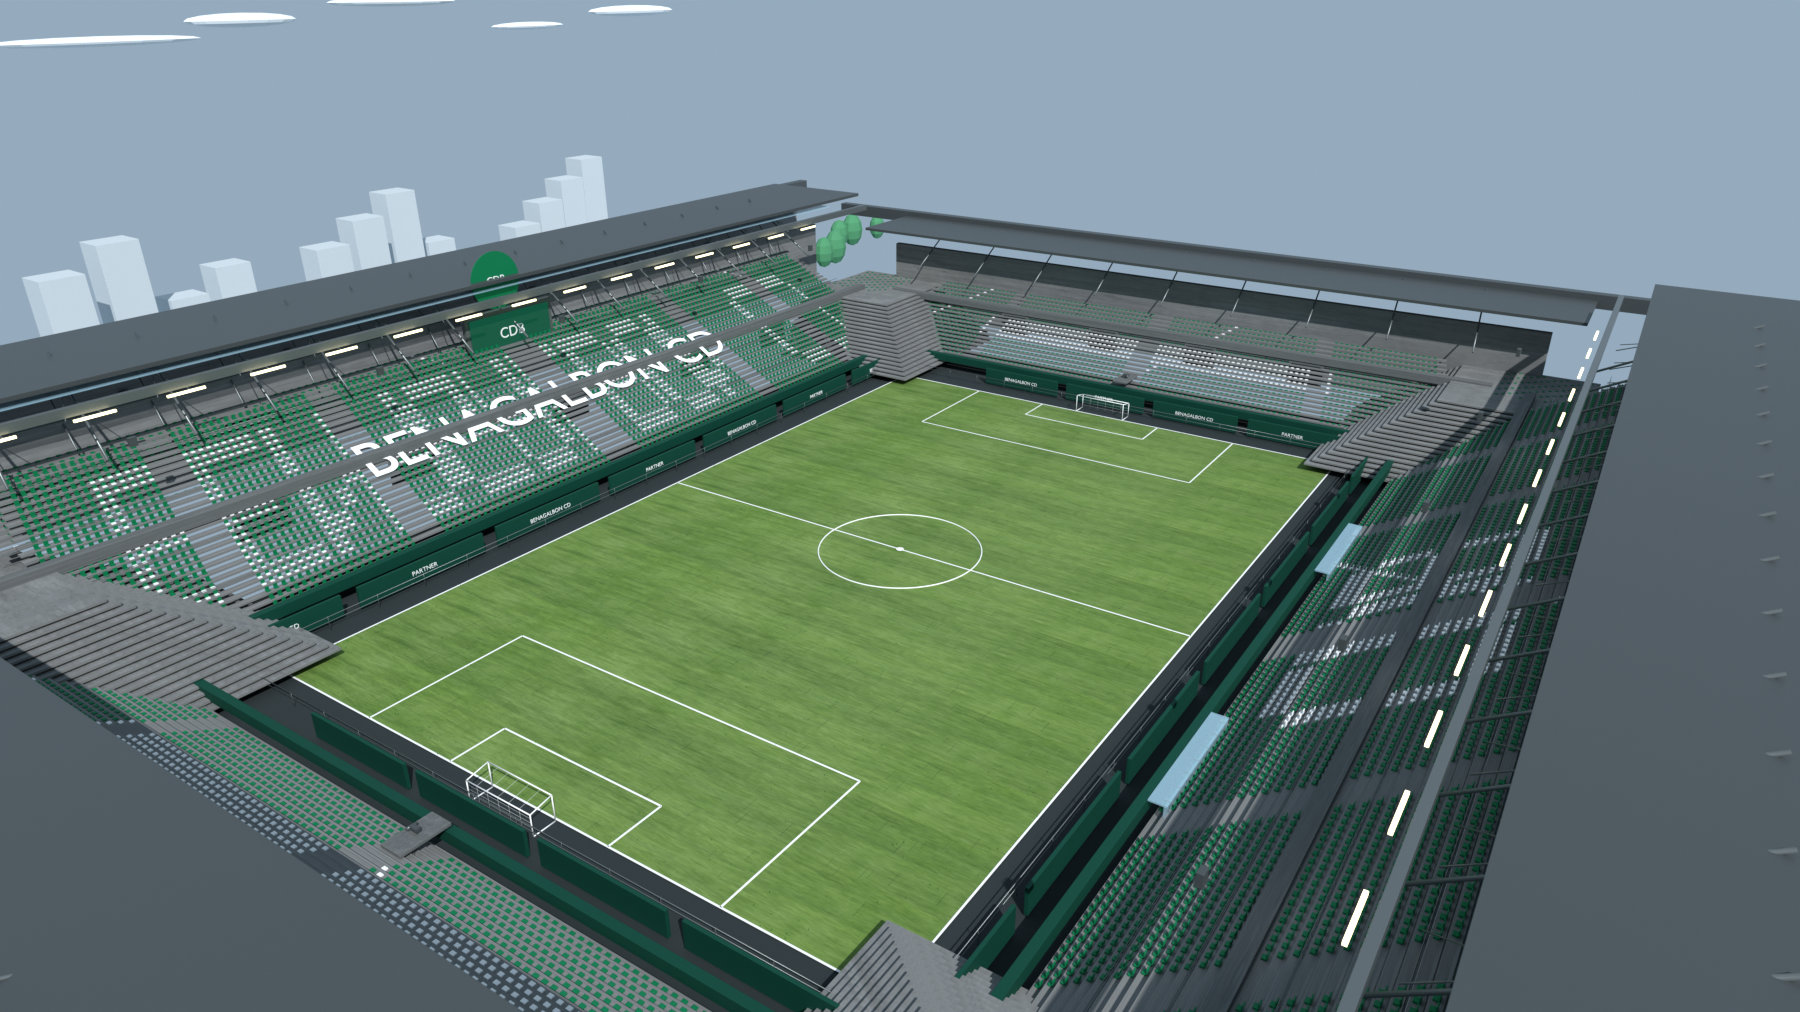
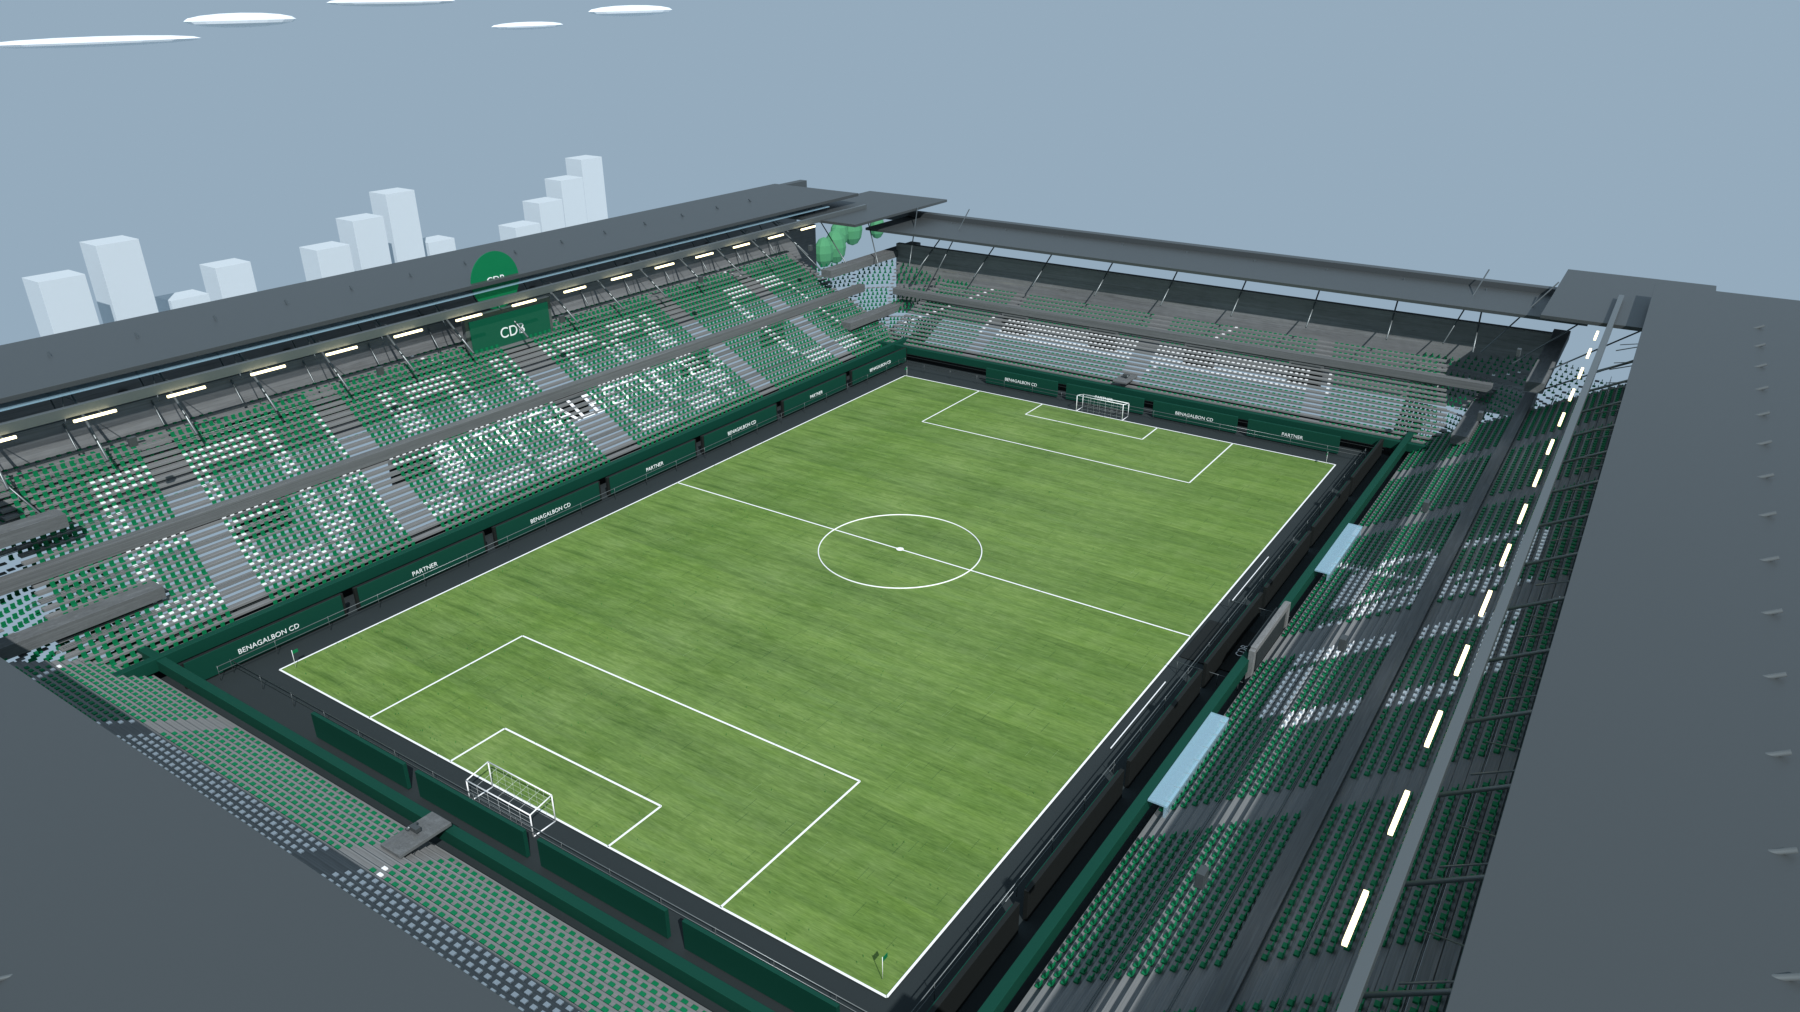
Model stadium bowl and pitch details

diff --git a/football/templates/football/stadium_hyperrealistic.html b/football/templates/football/stadium_hyperrealistic.html
@@ -126,7 +126,7 @@
   <body>
     <main
       id="stadium-root"
-      data-model-src="{% static 'football/models/stadium/benagalbon-hyperrealistic-stadium.glb' %}?v=stadium-render-10"
+      data-model-src="{% static 'football/models/stadium/benagalbon-hyperrealistic-stadium.glb' %}?v=stadium-render-11"
       data-crest-src="{% static 'football/images/cdb-benagalbon-crest.png' %}"
       data-twoj-src="{% static 'football/images/2j-mark.svg' %}"
     ></main>
@@ -142,6 +142,6 @@
         <button type="button" data-camera="touchline" title="Camara banda">LINE</button>
       </div>
     </div>
-    <script type="module" src="{% static 'football/js/stadium_hyperrealistic.js' %}?v=blender-stadium-10"></script>
+    <script type="module" src="{% static 'football/js/stadium_hyperrealistic.js' %}?v=blender-stadium-11"></script>
   </body>
 </html>

diff --git a/scripts/create_hyperrealistic_stadium_blender.py b/scripts/create_hyperrealistic_stadium_blender.py
@@ -274,6 +274,12 @@ def add_text(name, text, loc, size, mat_name, rot=(0, 0, 0), align="CENTER", ext
     return obj
 
 
+def add_textured_panel(name, loc, scale, mat_name, rot=(0, 0, 0), bevel=0.02):
+    obj = cube(name, loc, scale, mat_name, bevel)
+    obj.rotation_euler = rot
+    return obj
+
+
 def add_pitch():
     cube("service_apron_asphalt", (0, 0, -0.055), (140, 100, 0.08), "asphalt")
     stripe_w = PITCH_X / 14
@@ -426,11 +432,11 @@ def add_long_stand(name, sign):
         add_text(
             f"{name}_seat_name_overlay",
             "BENAGALBON CD",
-            (0, base_y + sign * 10.85, 8.45),
-            7.25,
+            (0, base_y + sign * 8.65, 6.65),
+            5.15,
             "seat_white",
             rot=(seating_angle, 0, 0),
-            extrude=0.012,
+            extrude=0.006,
         )
     cube(f"{name}_front_fascia", (0, base_y - sign * 1.2, 2.1), (PITCH_X + 32, 0.8, 1.25), "green_dark", 0.04)
     cube(f"{name}_middle_concourse_ring", (0, base_y + sign * 11.4, 8.7), (PITCH_X + 31, 1.25, 1.25), "concrete_dark", 0.03)
@@ -510,29 +516,48 @@ def add_end_stand(name, sign):
 def add_corner_stands():
     for sx in [-1, 1]:
         for sy in [-1, 1]:
-            base_x = sx * (HALF_X + 9.5)
-            base_y = sy * (HALF_Y + 9.5)
+            center_x = sx * (HALF_X + 4.4)
+            center_y = sy * (HALF_Y + 4.4)
             primary, secondary = [], []
-            for row in range(18):
-                z = 1.15 + row * 0.43
-                width = 28 - row * 0.52
-                depth = 25 - row * 0.46
-                cube(f"corner_step_{sx}_{sy}_{row}", (base_x + sx * row * 0.50, base_y + sy * row * 0.50, z - 0.1), (width, depth, 0.24), "concrete")
-                for ix in range(28):
-                    for iy in range(22):
-                        nx = ix / 27 - 0.5
-                        ny = iy / 21 - 0.5
-                        if nx * sx < -0.18 or ny * sy < -0.18:
-                            continue
-                        if (ix + iy + row) % 4:
-                            continue
-                        x = base_x + sx * row * 0.50 + nx * (width - 2)
-                        y = base_y + sy * row * 0.50 + ny * (depth - 2)
-                        target = secondary if (row + ix + iy) % 31 == 0 else primary
-                        target.append(((x, y, z + 0.04), (0.34, 0.34, 0.15)))
-            mesh_boxes(f"corner_{sx}_{sy}_green_seats", primary, "green")
-            mesh_boxes(f"corner_{sx}_{sy}_white_seats", secondary, "seat_white")
-            cube(f"corner_{sx}_{sy}_concourse_ring", (base_x + sx * 9.0, base_y + sy * 9.0, 7.6), (16, 1.0, 1.0) if abs(sx) else (1.0, 16, 1.0), "concrete_dark", 0.02)
+            aisle, backs = [], []
+            angle_start, angle_end = 0, math.pi / 2
+            if sx < 0 and sy > 0:
+                angle_start, angle_end = math.pi / 2, math.pi
+            elif sx < 0 and sy < 0:
+                angle_start, angle_end = math.pi, 1.5 * math.pi
+            elif sx > 0 and sy < 0:
+                angle_start, angle_end = 1.5 * math.pi, 2 * math.pi
+            for row in range(24):
+                radius = 6.5 + row * 0.86
+                z = 1.10 + row * 0.44
+                step_count = 30 + row // 2
+                for col in range(step_count):
+                    t = col / max(1, step_count - 1)
+                    angle = angle_start + (angle_end - angle_start) * t
+                    x = center_x + math.cos(angle) * radius
+                    y = center_y + math.sin(angle) * radius
+                    if abs(x) < HALF_X + 2.4 or abs(y) < HALF_Y + 2.4:
+                        continue
+                    if col in {7, 15, 23} or row in {8, 16}:
+                        aisle.append(((x, y, z - 0.04), (0.58, 0.50, 0.11)))
+                        continue
+                    target = secondary if (row + col) % 43 == 0 else primary
+                    target.append(((x, y, z + 0.06), (0.36, 0.36, 0.15)))
+                    backs.append(((x, y, z + 0.32), (0.36, 0.08, 0.34)))
+            mesh_boxes(f"corner_{sx}_{sy}_curved_green_seats", primary, "green")
+            mesh_boxes(f"corner_{sx}_{sy}_curved_white_seats", secondary, "seat_white")
+            mesh_boxes(f"corner_{sx}_{sy}_curved_aisles", aisle, "concrete")
+            mesh_boxes(f"corner_{sx}_{sy}_seat_backs", backs, "green")
+            cube(f"corner_{sx}_{sy}_lower_concourse_mass", (sx * (HALF_X + 13.6), sy * (HALF_Y + 13.6), 5.6), (22, 2.0, 1.2), "concrete_dark", 0.02)
+            cube(f"corner_{sx}_{sy}_upper_concourse_mass", (sx * (HALF_X + 20.2), sy * (HALF_Y + 20.2), 12.8), (28, 2.1, 1.3), "concrete_dark", 0.02)
+            cube(f"corner_{sx}_{sy}_curved_roof_corner_plate", (sx * (HALF_X + 27.6), sy * (HALF_Y + 27.6), 20.0), (30, 18, 0.46), "roof", 0.03)
+            for i in range(5):
+                angle = angle_start + (angle_end - angle_start) * (i + 0.5) / 5
+                x1 = center_x + math.cos(angle) * 17
+                y1 = center_y + math.sin(angle) * 17
+                x2 = center_x + math.cos(angle) * 31
+                y2 = center_y + math.sin(angle) * 31
+                cylinder_between(f"corner_{sx}_{sy}_roof_radial_truss_{i}", (x1, y1, 12.5), (x2, y2, 20.4), 0.095, "steel", 10)
 
 
 def add_boards():
@@ -541,6 +566,7 @@ def add_boards():
     for x in range(-51, 52, 17):
         for sign in [-1, 1]:
             y = sign * (HALF_Y + 4.0)
+            cube(f"board_panel_back_{idx}", (x, y + sign * 0.10, 1.26), (15.8, 0.34, 2.64), "rubber", 0.02)
             cube(f"board_panel_{idx}", (x, y, 1.35), (15.2, 0.32, 2.4), "green_dark", 0.02)
             add_text(f"board_text_{idx}", labels[idx % len(labels)], (x, y - sign * 0.19, 1.38), 0.72, "white", rot=(math.radians(90), 0, math.radians(180) if sign < 0 else 0))
             idx += 1
@@ -577,6 +603,12 @@ def add_goals_and_benches():
         for i in range(5):
             zz = 0.38 + i * (h * 0.70 / 4)
             cylinder_between(f"goal_net_horizontal_{sign}_{i}", (x + back, -w / 2, zz), (x + back, w / 2, zz), 0.010, "net", 6)
+        for i in range(9):
+            yy = -w / 2 + i * (w / 8)
+            cylinder_between(f"goal_net_front_vertical_{sign}_{i}", (x + sign * 0.03, yy, 0.04), (x + sign * 0.03, yy, h), 0.008, "net", 5)
+        for i in range(6):
+            zz = i * h / 5
+            cylinder_between(f"goal_net_front_horizontal_{sign}_{i}", (x + sign * 0.03, -w / 2, zz), (x + sign * 0.03, w / 2, zz), 0.008, "net", 5)
     for side, x in enumerate([-22, 22]):
         cube(f"dugout_base_{side}", (x, -HALF_Y - 8.0, 0.55), (13, 1.25, 0.38), "green_dark", 0.04)
         cube(f"dugout_floor_rubber_{side}", (x, -HALF_Y - 7.65, 0.78), (12.4, 0.55, 0.08), "rubber", 0.02)
@@ -588,6 +620,23 @@ def add_goals_and_benches():
             cylinder_between(f"dugout_arc_rib_{side}_{rib}_roof", (rx, -HALF_Y - 8.68, 2.75), (rx, -HALF_Y - 7.25, 2.40), 0.035, "steel", 8)
         for i in range(9):
             cube(f"dugout_seat_{side}_{i}", (x - 4.4 + i * 1.1, -HALF_Y - 7.8, 0.92), (0.62, 0.50, 0.28), "green", 0.03)
+
+
+def add_players_tunnel_and_technical_area():
+    y = -HALF_Y - 6.35
+    cube("players_tunnel_recess_black", (0, y - 0.72, 1.75), (8.4, 1.0, 3.3), "asphalt", 0.04)
+    cube("players_tunnel_concrete_frame_top", (0, y - 0.98, 3.55), (10.0, 0.55, 0.58), "concrete", 0.035)
+    cube("players_tunnel_concrete_frame_left", (-5.15, y - 0.98, 1.95), (0.58, 0.55, 3.5), "concrete", 0.035)
+    cube("players_tunnel_concrete_frame_right", (5.15, y - 0.98, 1.95), (0.58, 0.55, 3.5), "concrete", 0.035)
+    cube("players_tunnel_rubber_walkway", (0, y + 2.2, 0.08), (8.2, 7.4, 0.04), "rubber", 0.02)
+    cube("technical_area_left_dash", (-15, -HALF_Y - 1.0, 0.11), (12.0, 0.10, 0.035), "white")
+    cube("technical_area_right_dash", (15, -HALF_Y - 1.0, 0.11), (12.0, 0.10, 0.035), "white")
+    add_text("tunnel_crest_letters", "CDB", (0, y + 1.25, 0.16), 1.1, "seat_white", rot=(0, 0, 0), extrude=0.01)
+    for x in [-7.0, 7.0]:
+        cylinder_between(f"tunnel_guardrail_{x}_top", (x, y - 1.0, 1.25), (x, y + 5.5, 1.25), 0.035, "steel", 8)
+        for i in range(4):
+            yy = y - 0.6 + i * 1.9
+            cylinder_between(f"tunnel_guardrail_{x}_post_{i}", (x, yy, 0.12), (x, yy, 1.3), 0.026, "steel", 8)
 
 
 def add_broadcast_and_matchday_details():
@@ -733,6 +782,7 @@ def main():
     add_corner_stands()
     add_boards()
     add_goals_and_benches()
+    add_players_tunnel_and_technical_area()
     add_broadcast_and_matchday_details()
     add_outer_facade_and_pitch_details()
     add_screen_and_crest()